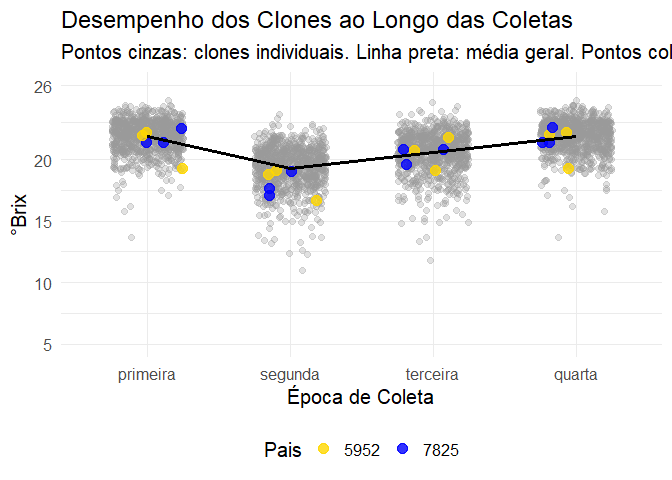
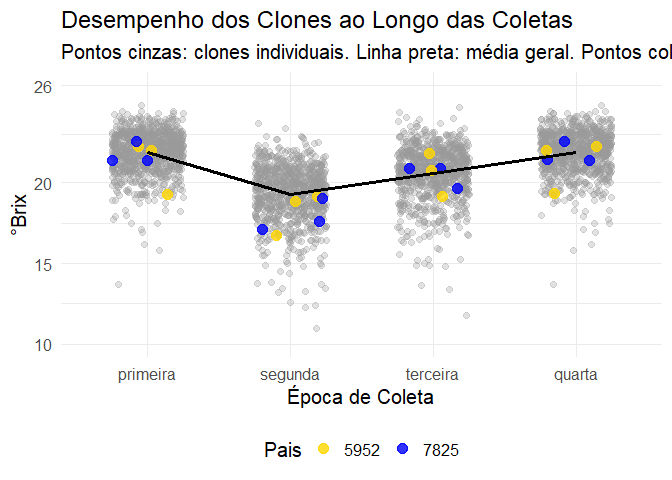
mudando escala do grafico

diff --git a/README.md b/README.md
@@ -67,8 +67,8 @@ grafico_dispersao <- ggplot(mapping = aes(x = coleta, y = brix)) +
     values = c("7825" = "blue", "5952" = "gold")
   ) +
   scale_y_continuous(
-    limits = c(5, 26),
-    breaks = c(5, 10, 15, 20, 26)
+    limits = c(10, 26),
+    breaks = c(10, 15, 20, 26)
   ) +
   labs(
     title = "Desempenho dos Clones ao Longo das Coletas",
